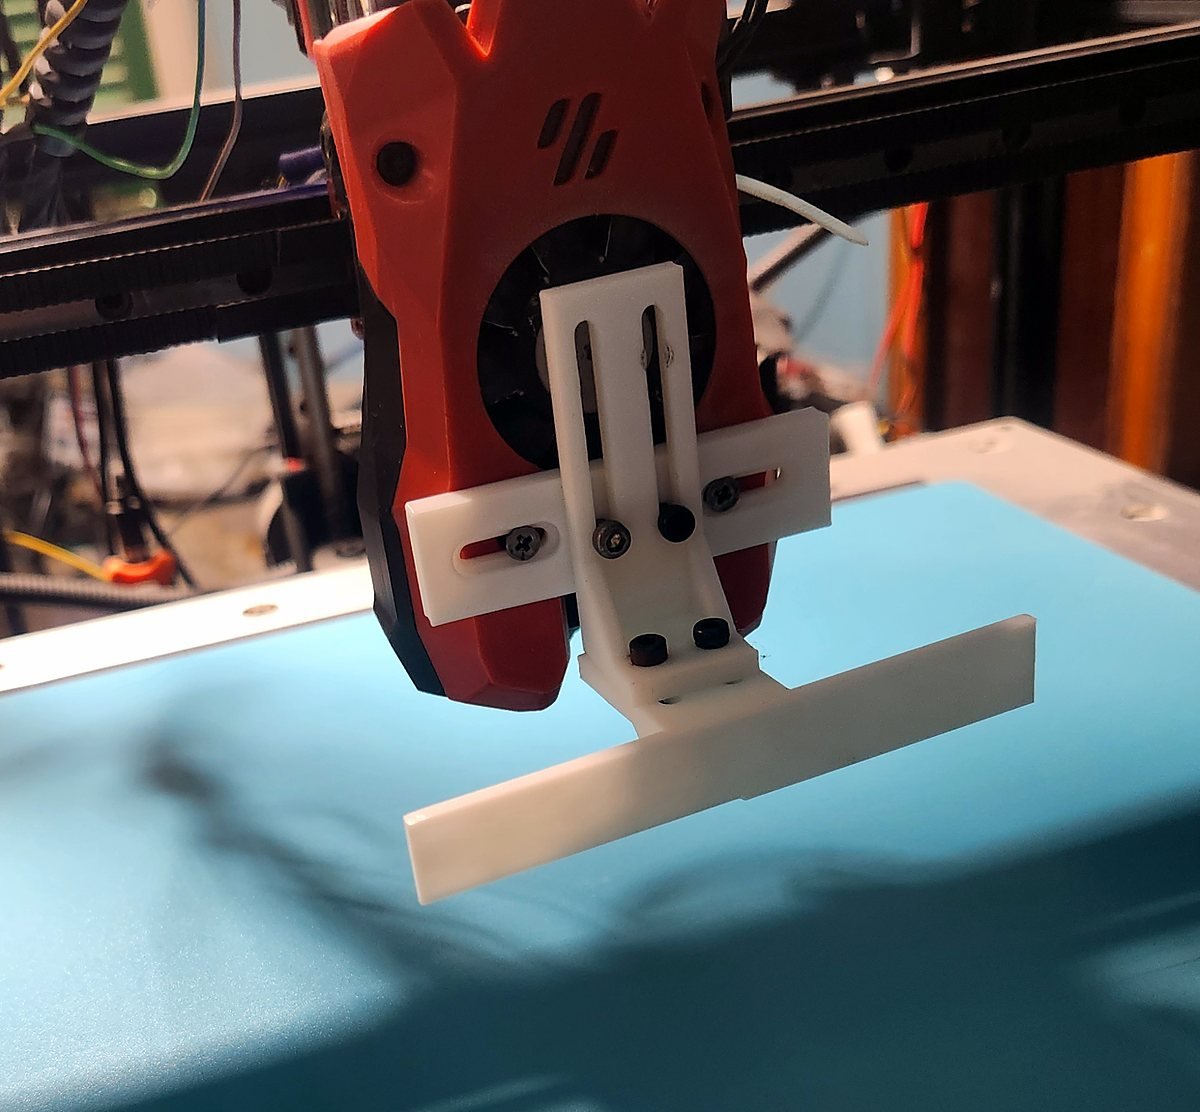
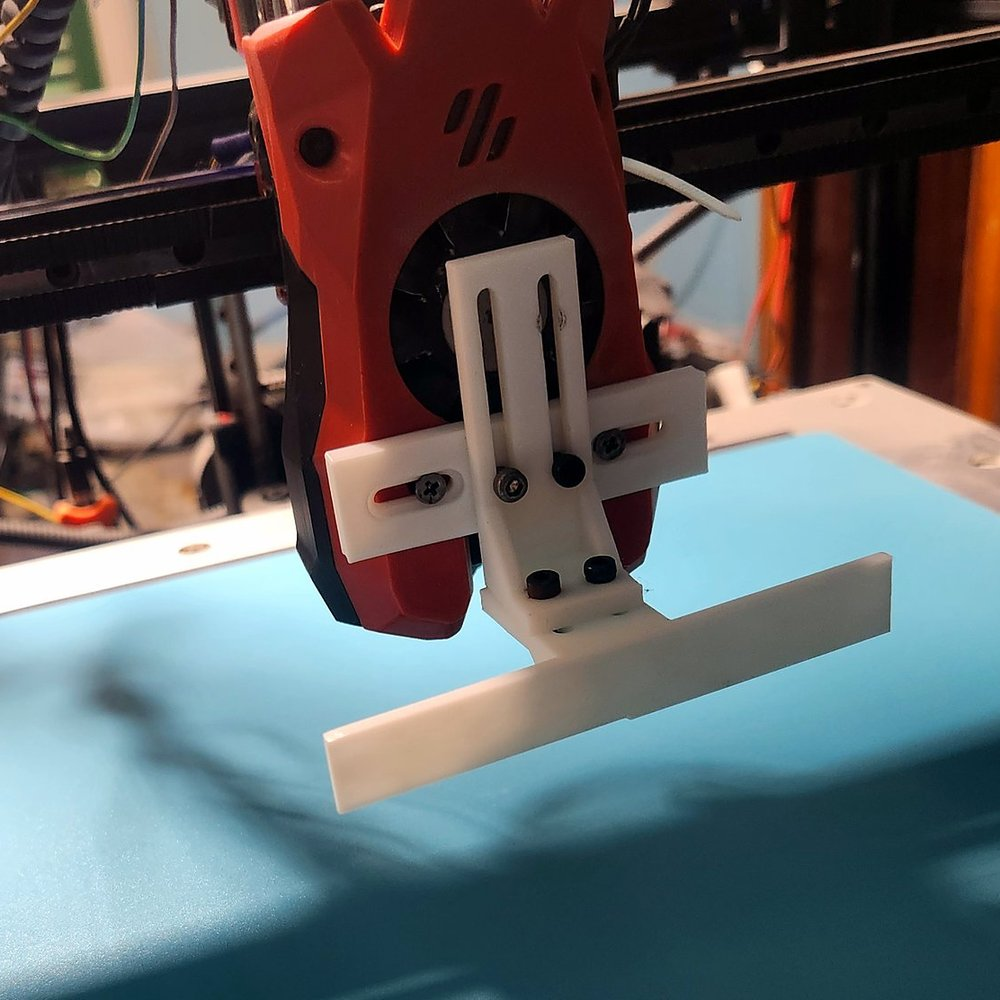
Crop the Voron photos to a matching square format

diff --git a/docs/hardware.md b/docs/hardware.md
@@ -93,11 +93,9 @@ layers run along the load.
 ### Example: Voron Trident with Stealthburner
 
 <p align="center">
-  <img src="../hardware/images/voron-stealthburner-front.jpg" width="48%" alt="Blade fitted to a Voron Stealthburner, front view">
-  <img src="../hardware/images/voron-stealthburner-closeup.jpg" width="48%" alt="Mount, arm and blade on the Stealthburner front cover">
-</p>
-<p align="center">
-  <img src="../hardware/images/voron-stealthburner-side.jpg" width="80%" alt="Side view: the blade reaches ahead of the toolhead">
+  <img src="../hardware/images/voron-stealthburner-front.jpg" width="32%" alt="Blade fitted to a Voron Stealthburner, front view">
+  <img src="../hardware/images/voron-stealthburner-closeup.jpg" width="32%" alt="Mount, arm and blade on the Stealthburner front cover">
+  <img src="../hardware/images/voron-stealthburner-side.jpg" width="32%" alt="Side view: the blade reaches ahead of the toolhead">
 </p>
 
 - The mount uses the two lower screws of the Stealthburner front cover, a few millimetres
